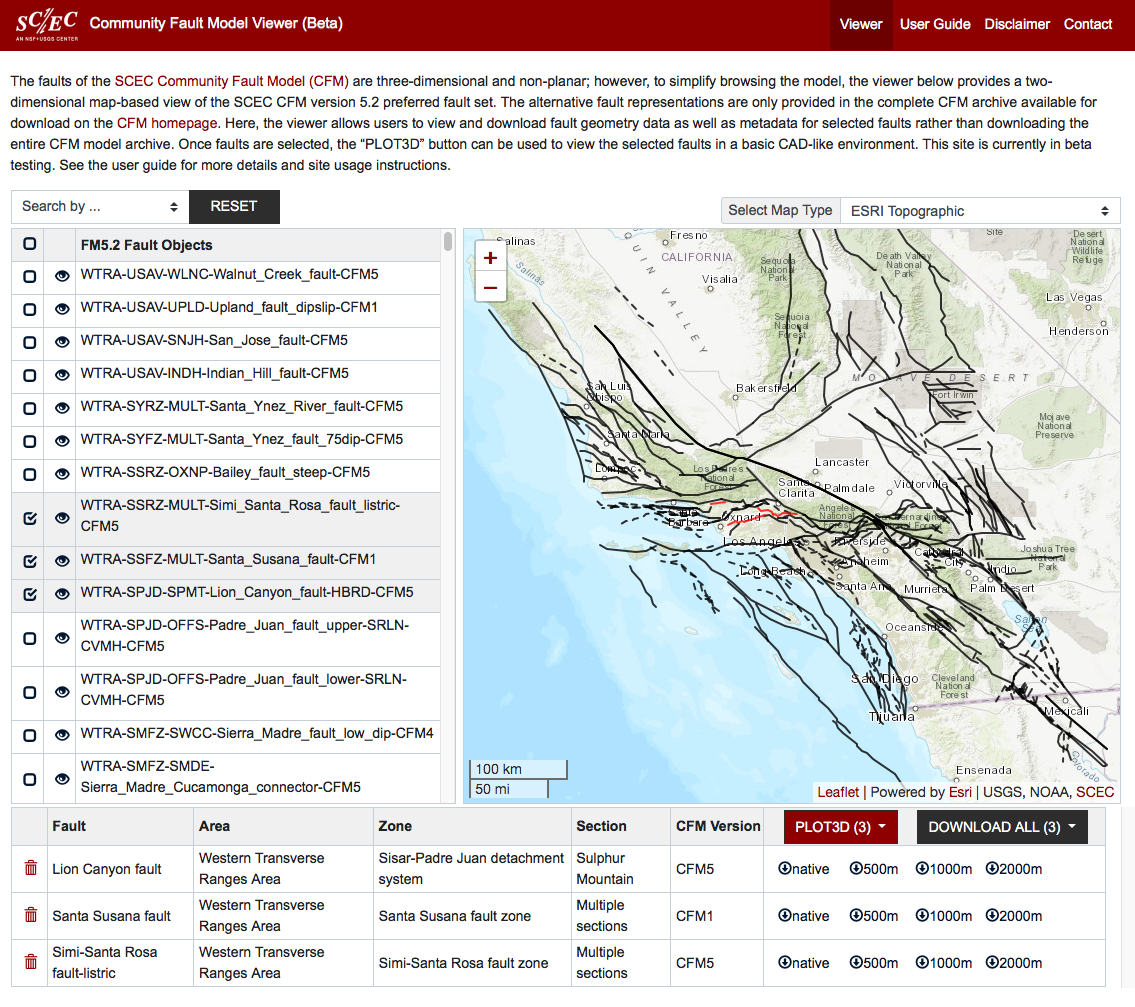
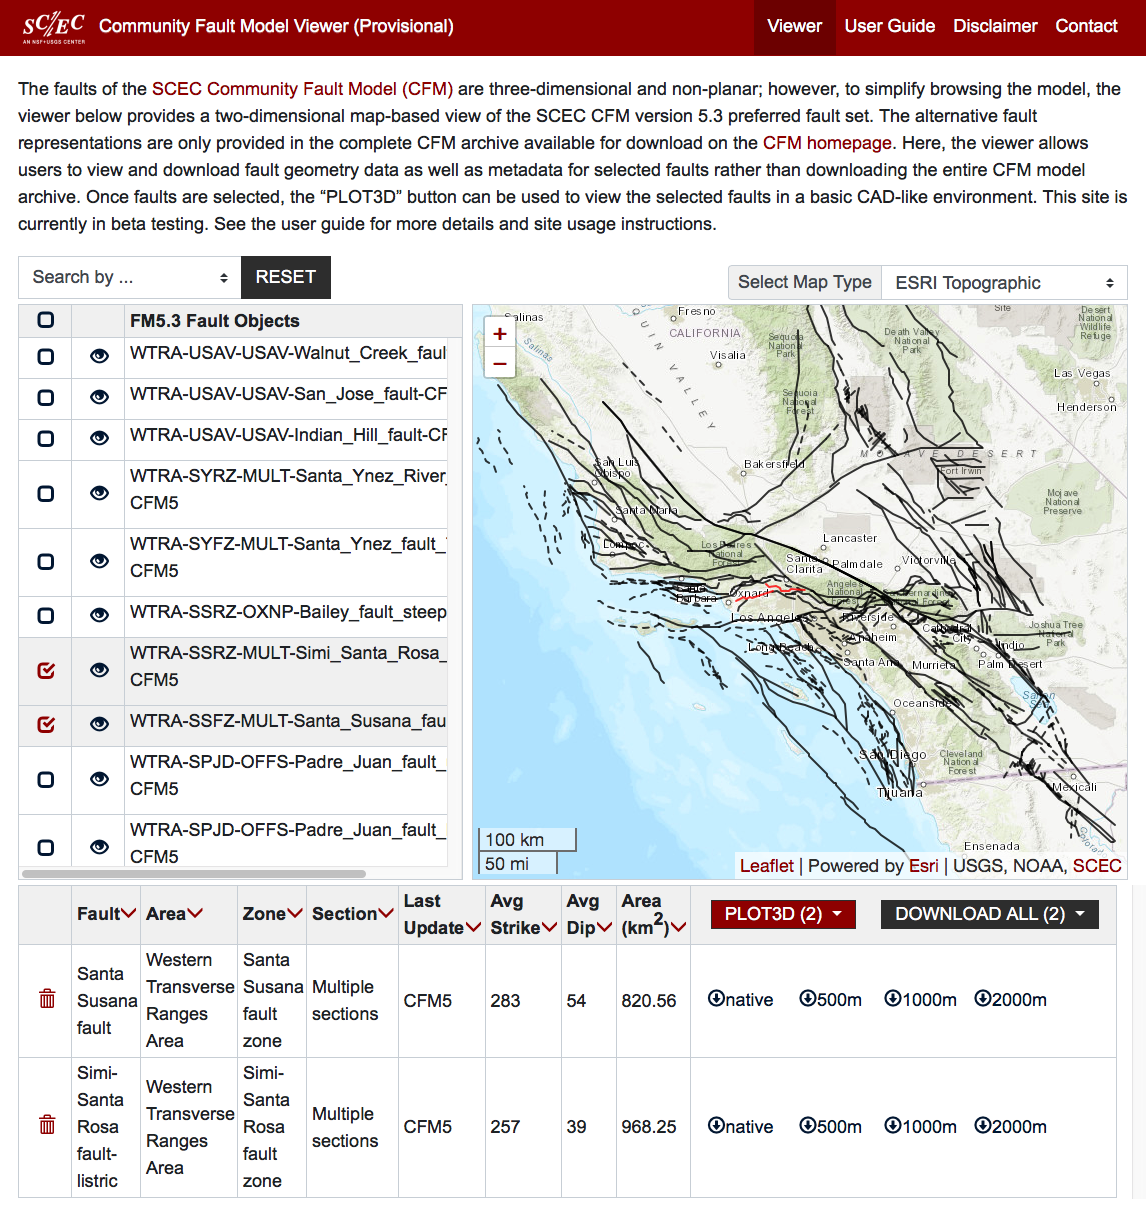
update user guide

diff --git a/web/guide.php b/web/guide.php
@@ -26,7 +26,7 @@ $header = getHeader("User Guide");
 
 <div class="container info-page-container scec-main-container guide">
 
-    <h1>User Guide</h1>
+    <h1>CFM Viewer User Guide</h1>
 
     <div class="row">
         <div class="col-12">
@@ -34,20 +34,20 @@ $header = getHeader("User Guide");
                 <img src="img/cfm-viewer.png" class="figure-img img-fluid" alt="Screen capture of CFM Viewer interface">
                 <figcaption class="figure-caption">Screen capture of CFM Viewer interface</figcaption>
             </figure>
-            <h4>Community Fault Model (CFM) Viewer Overview</h4>
-            <p>The CFM Viewer provides a map-based view of <a
-                        href="https://www.scec.org/research/cfm">CFM version 5.2</a> preferred
+            <h4><strong>Community Fault Model (CFM) Viewer Overview</strong></h4>
+            <p>The CFM Viewer provides a map-based view of the <a
+                        href="https://www.scec.org/research/cfm">CFM version 5.3</a> preferred
                faults. It allows users to view faults and metadata and download data on selected faults rather than downloading the entire CFM
-               model archive. The pages on this site are the <a href="<?php echo $host_site_actual_path; ?>">CFM viewer
+               model archive. The pages on this site include the <a href="<?php echo $host_site_actual_path; ?>">CFM viewer
                     page</a>, this user guide, <a href="disclaimer">a disclaimer</a>, and a <a href="contact">contact
                      information</a> page.
             </p>
 
             <p>The main interface is on the <a href="<?php echo $host_site_actual_path; ?>">Viewer Page</a>. When it is
-               first loaded, all available faults are listed in the box* on the left. Click on the checkboxes in the fault table
+               first loaded, all available faults are listed on the left side of the screen. Users can click on the checkboxes in the fault table
                to select faults or click on faults on the map. (See <strong>Viewing and Downloading Metadata</strong>
                below for more details.) Click on the eye icon (<span class="glyphicon glyphicon-eye-open"></span>) to
-               hide or show a fault. </p>
+               hide/show a fault. </p>
             <p>
                 The map on the right displays each fault in its geographic location, with blind faults appearing as dashed lines. On top of the map, there is a
                 control that allows the base map to be changed. By default, the map shown is <a
@@ -59,47 +59,66 @@ $header = getHeader("User Guide");
 
             <p><i>This site is provisional and is undergoing active testing and review by the CFM community. To report any bugs or issues, please see the <a href="contact">contact page</a>.</i></p>
 
-            <h4>Search</h4>
+            <h4><strong>Search</strong></h4>
             <p>
-                The site provides a number of search criteria, primarily keyword and latitude/longitude but also the
-                following advanced search criteria: fault area, fault zone, section, and name. Once a
-                search type is selected, controls will appear below in the form of another dropdown, text input boxes, or
-                sliders. </p>
-            <p>
-                When performing a latitude/longitude search, there are two search methods. The first method is to
-                enter the latitude/longitude values of the bottom left and top right corners of a bounding rectangle into the
-                text boxes, then clicking the search icon <span style="white-space: nowrap;">(<span
-                            style="color:#990000;font-size:20px" class="glyphicon glyphicon-search"></span>).</span>
-                The second method is to click and drag on the map to draw a bounding rectangle. In either case, any portion of a fault that lies within the bounding rectangle will appear in the search results. Once a search is submitted, the matching faults appear on the map and are listed in the box* to the left. </p>
-            <p>To return to the initial view showing all the faults, click the "RESET" button.</p>
+                The site provides a number of search criteria, primarily keyword and latitude/longitude but also
+                the following advanced search criteria: fault area, fault zone, section, and name. Once a
+                search type is selected, controls will appear below in the form of another dropdown, text input
+                boxes, or sliders. </p>
 
-            <h4>Viewing and Downloading Data</h4>
+            <p> The site provides a number of search criteria, including keyword, latitude/longitude, fault area,
+                fault zone, section, and name. Users can also filter results by the average strike and/or dip of
+                fault objects. Once a search type is selected, controls will appear below in the form of another
+                dropdown, text input boxes, or sliders. Note that CFM faults are non-planar. The average strike
+                and dip values are calculated from the area-weighted normal vectors for a given surface. 
+                Area weighting accounts for the differing triangular element sizes/shapes.</p>
 
-            <p>
-                Metadata files in CSV format and tsurf files are available for download from this site. First, select the desired faults by clicking on the fault displayed on the map or clicking on fault listed in the box* to the left of the map. The selected faults are highlighted in red** on the map. The selected faults' metadata appear in the metadata table* at the bottom of the page. Click on the links on the rightmost column of the metadata table to download data for one fault. Click on the "DOWNLOAD ALL" button to download data for all selected faults. The download options are: metadata only, or metadata along with tsurf files in native, 500m, 1000m, 2000m, or "All of the Above", in a ZIP archive file. </p>
+            <p> When performing a latitude/longitude search, there are two search methods.  Users can either
+                enter the latitude/longitude values of the bottom left and top right corners of a bounding 
+                rectangle into the text boxes, or simply click and drag on the map to draw a bounding rectangle.
+                In either case, any portion of a fault that lies within the bounding rectangle will appear in
+                the search results. Once a search is submitted, the matching faults appear on the map and are 
+                listed in the box* to the left. </p>
 
+            <p> If a user wants to filter based on multiple criteria, the record button can be used to lock 
+                in the currently selected set, and then additional filter(s) can be applied, each time clicking
+                on the record button after each filter is applied. </p>
 
-            <p>* The scrollable boxes on this site can contain more data than is visible at one time.
-                <!--
-                <br/>
-               ** When highlighting faults by strike or dip, selected faults appear turquoise rather than red. This is
-               to avoid confusion with the strike/slip color scale.
-               -->
-            </p>
+            <p> To return to the initial view showing all the faults, click the "RESET" button.</p>
 
-            <h4>Viewing in 3D and the Plot3D tool</h4>
-            <p>
-                This “Plot3D” option is intended to provide potential CFM users with a quick and convenient way to view CFM fault surfaces in their native 3D environment (UTM zone 11s). This tool not designed to replace fully functional CAD software. Refer to the 
-<a href="https://www.scec.org/research/cfm">CFM homepage</a> for information about recommended software. This tool currently does not have the ability to plot 3D axes, and a map scale in 3D is not useful because any scale would only be valid at one given distance from the viewer. Faults in the CFM extend to the approximate base of the seismogenic zone (max depth of earthquakes), which is approximately 15 – 20 km depth in most southern California regions.
-             </p>
-             <p>
-                 For location purposes, the 3D viewer shows all CFM fault traces in pink, blind fault upper tip lines in orange, and the coastline and state boundaries in black. In the bottom right corner, the green arrow points North, pink points East, and yellow points up vertically.
-             </p>
-             <p> 
-                 Learning to navigate in 3D takes some practice, so if you get lost or disoriented, try clicking on the “Show Mapview” button in the top right corner to reset to the original mapview.
-             </p>
+            <h4><strong>Viewing and Downloading Data</strong></h4>
 
-            <h4>Notes</h4>
+            <p> Metadata files in CSV format and tsurf files are available for download from this site. First,
+                select the desired faults by clicking on the fault displayed on the map or clicking on fault 
+                listed in the box* to the left of the map. The selected faults are highlighted in red** on the
+                map. The selected faults' metadata appear in the metadata table* at the bottom of the page. 
+                Click on the links on the rightmost column of the metadata table to download data for one fault.
+                Click on the "DOWNLOAD ALL" button to download data for all selected faults. The download 
+                options are: metadata only, or metadata along with tsurf files in native, 500m, 1000m, 2000m,
+                or "All of the Above", in a ZIP archive file. </p>
+
+            <p>* The scrollable boxes on this site can contain more data than is visible at one time. </p>
+
+            <h4><strong>Viewing in 3D and the Plot3D tool</strong></h4>
+
+            <p> This “Plot3D” option is intended to provide potential CFM users with a quick and convenient way
+                to view CFM fault surfaces in their native 3D environment (UTM zone 11s). This tool is not 
+                designed to replace fully-functional CAD software. Refer to the 
+                <a href="https://www.scec.org/research/cfm">CFM homepage</a> for information about recommended
+                software. This tool currently does not have the ability to plot 3D axes, and a map scale in 3D
+                is not useful because any scale would only be valid at one given distance from the viewer. 
+                Faults in the CFM extend to the approximate base of the seismogenic zone (max depth of 
+                earthquakes), which is approximately 15 – 20 km depth in most southern California regions.</p>
+
+             <p> For location purposes, the 3D viewer shows all CFM fault traces in pink, blind fault upper 
+                 tip lines in orange, and the coastline and state boundaries in black. In the bottom right 
+                 corner, the green arrow points North, pink points East, and yellow points up vertically.</p>
+
+             <p> Learning to navigate in 3D takes some practice, so if you get lost or disoriented, try 
+                 clicking on the “Show Mapview” button in the top right corner to reset to the original 
+                 mapview.</p>
+
+            <h4><strong>Notes</strong></h4>
             <ul>
                 <li>
                     Projections: 3D fault representations in gocad format are provided in Universal Transverse Mercator projection (UTM zone 11S, North American datum 1927).</li>
@@ -116,10 +135,10 @@ $header = getHeader("User Guide");
                 </li>
             </ul>
 
-            <h4>Browser Requirements</h4>
+            <h4><strong>Browser Requirements</strong></h4>
             <p>This site supports the latest versions of <a href="https://www.mozilla.org/en-US/firefox/">Firefox</a>, <a href="https://www.google.com/chrome/">Chrome</a>, <a href="https://www.apple.com/safari/">Safari</a>, and <a href="https://www.microsoft.com/en-us/windows/microsoft-edge">Microsoft Edge</a>.</p>
 
-            <h4>About the SCEC Community Fault Model (CFM) </h4>
+            <h4><strong>About the SCEC Community Fault Model (CFM)</strong></h4>
 
             <figure class="cfm-perspective-view figure float-lg-right">
                 <img src="img/cfm52_perspective.png" class="figure-img img-fluid"
@@ -128,40 +147,48 @@ $header = getHeader("User Guide");
                 </figcaption>
             </figure>
 
-            <p>The SCEC Community Fault Model (CFM) is an object-oriented, three-dimensional representation of more than
-               150 active faults in southern California (Plesch et al., 2007). The model is organized into more than 350
-               fault objects which include triangulated surface representations (t-surfs) of these faults and associated meta
-               data. The t-surfs are defined from surfaces traces, seismicity, seismic reflection profiles, wells, geologic
-               cross-sections and models. The model includes alternative representations of many faults, with preferred
-               versions established by a CFM working group in SCEC. A subset of the model is provided in a number of
+            <p>The SCEC Community Fault Model (CFM) is an object-oriented, three-dimensional representation of 
+               active faults in southern California (Plesch et al., 2007). The model is organized into 
+               438 fault objects each of which include triangulated surface (t-surfs) and surface trace 
+               representations and associated meta-data including references. The 3D t-surfs are defined from 
+               surface traces, seismicity, seismic reflection profiles, wells, geologic cross-sections and 
+               models. The model includes alternative representations of many faults, with preferred
+               versions established based on community evaluations by the SCEC community. To faciliate 
+               modeling of the CFM, the model t-surfs are provided in a number of semi-regularized
                mesh resolutions. </p>
 
             <p> The model serves the Southern California Earthquake Center (SCEC) as a unified resource for
-                physics-based fault systems modeling, strong ground-motion prediction, and probabilistic seismic hazards assessment (e.g., UCERF3).
-                Together with the Community Velocity Model (CVM-H 15.1.0), the CFM comprised SCEC's Unified Structural
-                Representation of the Southern California crust and upper mantle (Shaw et al., 2015).</p>
+                physics-based fault systems modeling, strong ground-motion prediction, and probabilistic 
+                seismic hazards assessment (e.g., UCERF3).  Together with the Community Velocity Model (
+                CVM-H 15.1.0), the CFM comprises SCEC's Unified Structural Representation of the Southern 
+                California crust and upper mantle (Shaw et al., 2015).</p>
 
-            <p> The latest release of the CFM is version 5.2, which includes many new and revised fault representations
-                (Nicholson et al., 2017). In addition, the new model expands and improves the database component of CFM
-                to help ensure the internal consistency and maintainability of the model. This hierarchical name and numbering system enables model users to access and assess the full richness of the various fault systems, 3D fault models, and 3D fault components in CFM. In addition to fault area, fault system, fault section and fault name, the expanded CFM database now includes fields for alternate and CFM version number, source, descriptor, references, USGS Quaternary fault (Qfault) ID, and fault attributes of average strike, dip, area, and faulting style. Care was taken to insure that the database is synchronized with the latest catalog of individual, t-surf CFM fault representations. </p>
+            <p> The latest release of the CFM is version 5.3, which includes many new and revised fault 
+                representations, mainly in the Ridgecrest and offshore regions (Plesch et al., 2020). 
+                In addition, CFM5.3 has greatly expanded and improved metadata, including references, 
+                average strike/dip, and surface areas for each model object. The various filenames and 
+                heirarchical naming structures are now automatically checked for consistency by scripts.
+                This ensures the internal consistency and maintainability of the model. This hierarchical 
+                naming system enables model users to easily filter the model into a region of interest. 
+                In addition, the expanded CFM metadata now includes fields last update (by CFM version number), 
+                references, and when available, the corresponding USGS Quaternary fault (Qfault) ID.
+                Sense of slip for each fault object is now provided, but is meant only as approximate, and 
+                in the absence of other data, sense of slip is based solely on the 3D surface orientation. 
+                Automated scripts now ensure that the metadata database is synchronized and consistent 
+                with the latest catalog of individual, t-surf CFM fault representations.</p>
 
             <p>More information about the CFM, including a complete model archive, can be found at: <a
                         href="https://www.scec.org/research/cfm">https://www.scec.org/research/cfm</a>.
 
-            <h4>References</h4>
+            <h4><strong>References</strong></h4>
             <ul class="references">
-                <li><a href="https://www.scec.org/user/nicholson">Nicholson, C.</a>, <a
-                            href="https://www.scec.org/user/plesch">Plesch,
-                                                                    A.</a>, &amp; <a
-                            href="https://www.scec.org/user/jshaw">Shaw, J. H.</a> (2017, 08). Community Fault
-                                                                                   Model Version 5.2: Updating &amp;
-                                                                                   expanding the CFM 3D fault set and
-                                                                                   its associated fault database.
-                                                                                   Poster
-                                                                                   Presentation at 2017 SCEC Annual
-                                                                                   Meeting.&nbsp; <a
-                            href="https://www.scec.org/publication/7735">SCEC
-                                                                         Contribution 7735</a></li>
+                <li> <a href="https://www.scec.org/user/plesch">Plesch, A.</a>, <a
+                            href="https://www.scec.org/user/marshallst">Marshall, S. T.</a>, <a 
+                            href="https://www.scec.org/user/nicholson">Nicholson, C.</a>, <a
+                            href="https://www.scec.org/user/jshaw">Shaw, J. H.</a>, <a 
+                            href="https://www.scec.org/user/maechlin">Maechling, P. J.</a>, <a
+                            href="https://www.scec.org/user/mei">Su, M-H.</a>. (2020). “The Community Fault Model version 5.3 and new web-based tools” Virtual Poster Presentation at the 2020 SCEC Annual Meeting. <a 
+                            href="https://www.scec.org/publication/10547">SCEC Contribution 10547</a></li>
                 <li><a href="https://www.scec.org/user/plesch">Plesch, A.</a>, et al. (2007). "Community Fault Model
                                                                              (CFM)
                                                                              for
